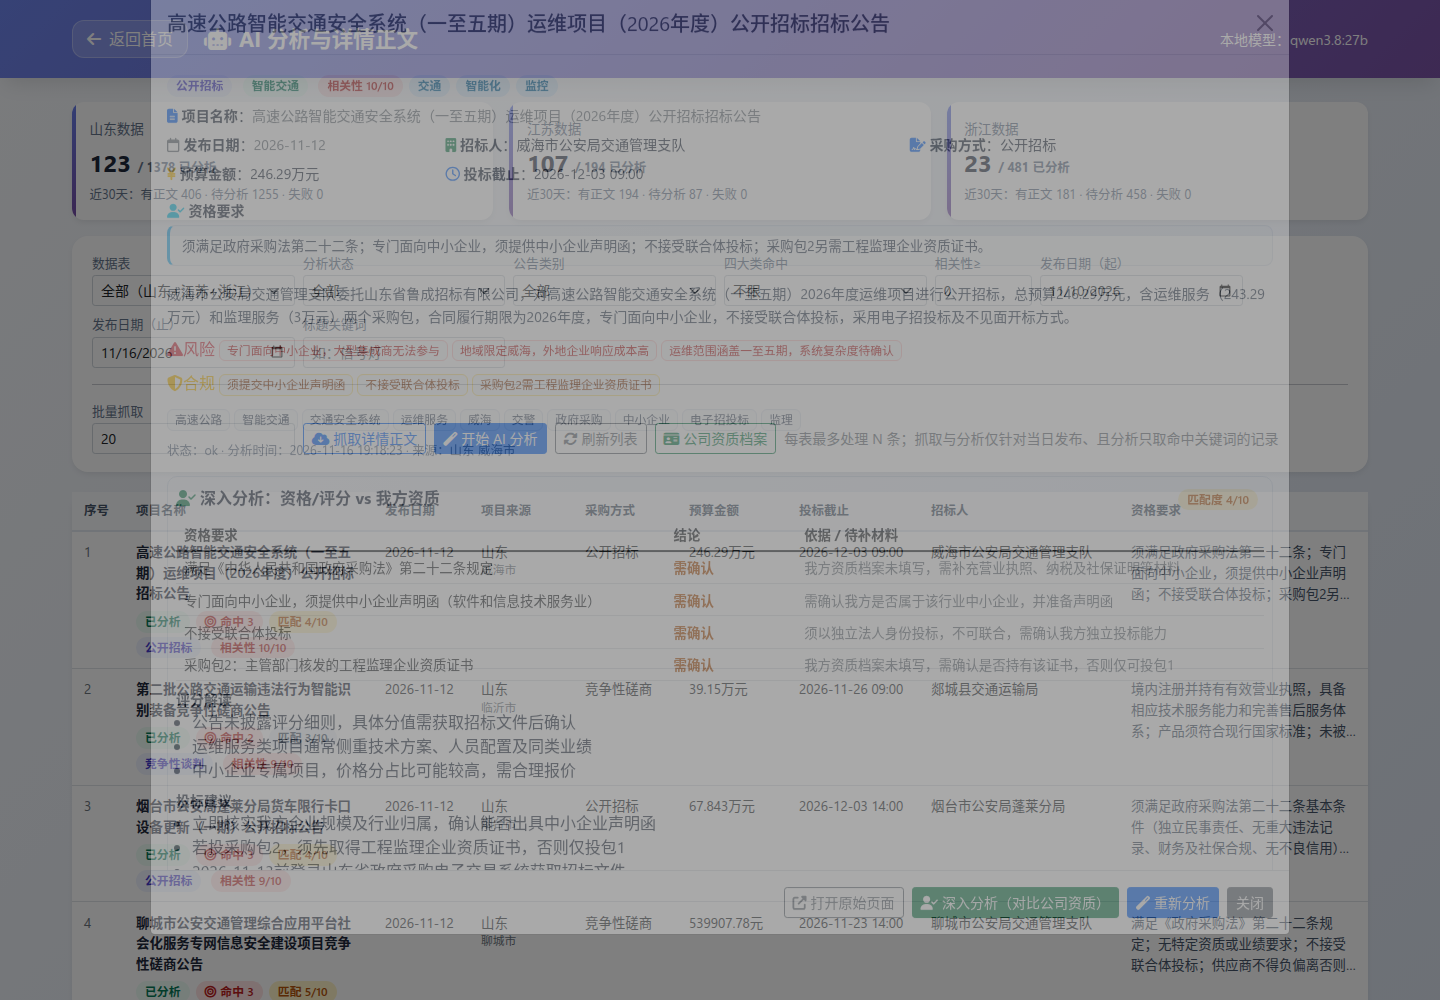
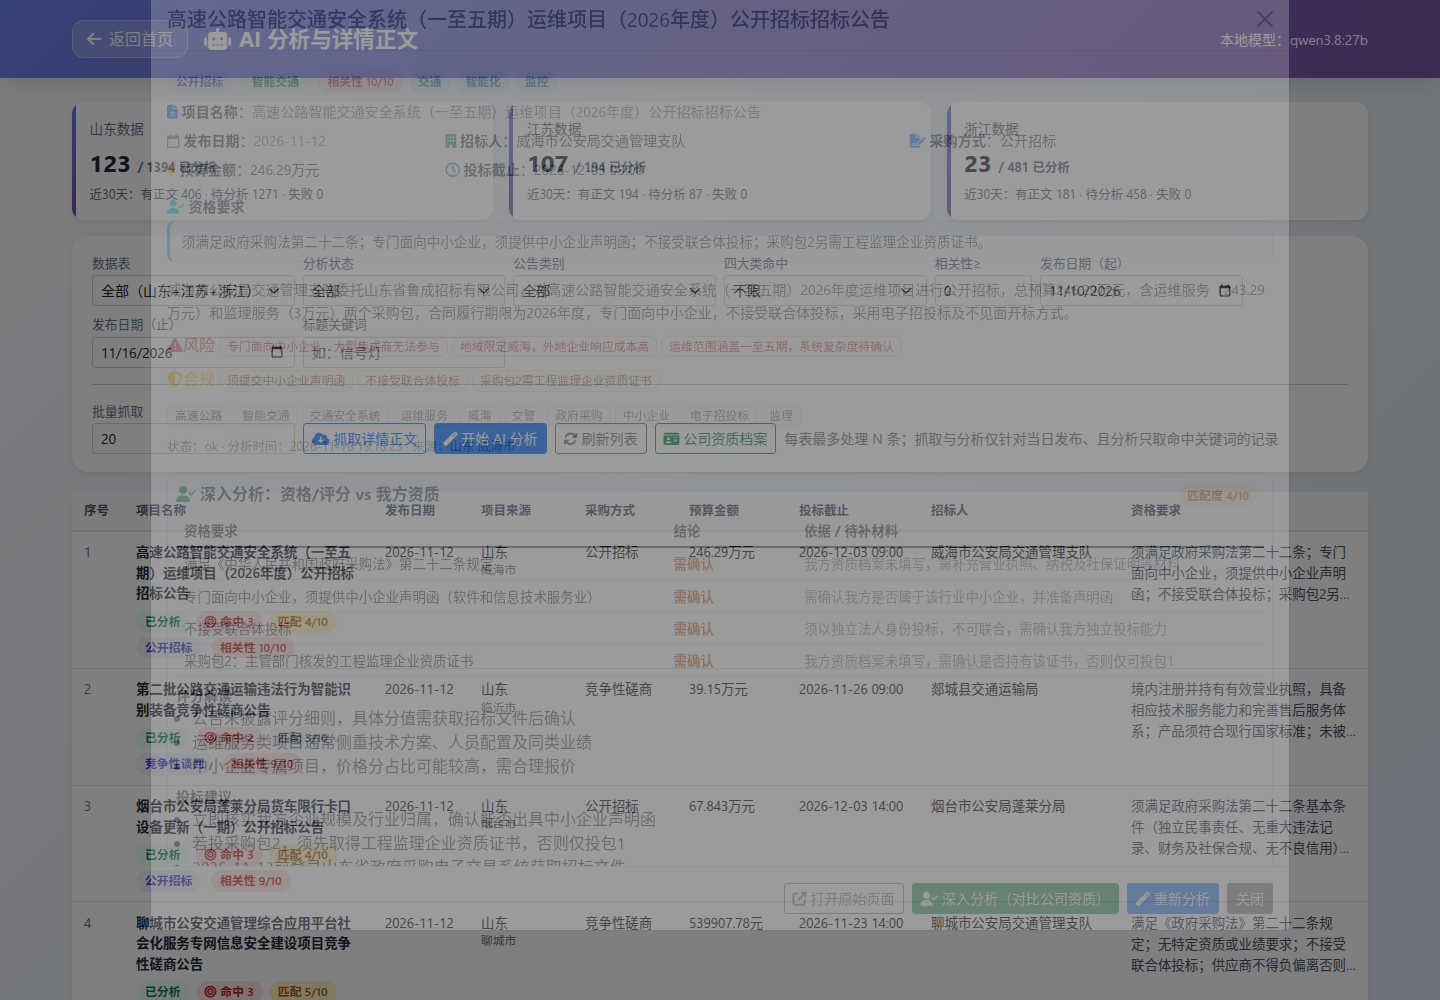
feat(ui): 主页头部新增 AI 分析入口(带已分析数)

diff --git a/flask_web/templates/index.html b/flask_web/templates/index.html
@@ -1112,7 +1112,7 @@
                     </div>
                 </div>
             </div>
-            <!-- 第二行：7个功能块 -->
+            <!-- 第二行：8个功能块 -->
             <div class="row">
                 <div class="col-12">
                     <div class="header-blocks-container">
@@ -1146,6 +1146,17 @@
                             <div class="block-content">
                                 <div class="block-title">重点关注</div>
                                 <div class="block-value" id="focus-count">0</div>
+                            </div>
+                        </a>
+
+                        <!-- AI 分析 -->
+                        <a href="{{ url_for('ai_analysis.index') }}" class="header-function-block" id="ai-analysis-block">
+                            <div class="block-icon">
+                                <i class="fas fa-robot"></i>
+                            </div>
+                            <div class="block-content">
+                                <div class="block-title">AI 分析</div>
+                                <div class="block-value" id="ai-analysis-count">0</div>
                             </div>
                         </a>
 
@@ -1755,6 +1766,7 @@ $(document).ready(function() {
     // 初始化头部数量统计
     updateBiddingCount();
     updateAnalysisCount();
+    updateAiAnalysisCount();
     updateFocusCount();
     updateDesignCount();
     updateAuditCount();
@@ -1874,6 +1886,23 @@ function updateAnalysisCount() {
         }
     }).fail(function() {
         $('#analysis-count').text('0');
+    });
+}
+
+// 更新 AI 分析数量（三张主表已分析合计）
+function updateAiAnalysisCount() {
+    $.get('{{ url_for('ai_analysis.api_stats') }}', function(response) {
+        if (response && response.data) {
+            let done = 0;
+            Object.keys(response.data).forEach(function(k) {
+                done += parseInt(response.data[k].analyzed) || 0;
+            });
+            $('#ai-analysis-count').text(done);
+        } else {
+            $('#ai-analysis-count').text('0');
+        }
+    }).fail(function() {
+        $('#ai-analysis-count').text('0');
     });
 }
 

diff --git a/tools/ui_smoke.py b/tools/ui_smoke.py
@@ -139,6 +139,27 @@ def main():
         else:
             check('转单二次校验弹窗', False, '未找到按钮')
 
+        print('== 4. 主页 AI 入口 ==')
+        page.goto(BASE + '/', wait_until='domcontentloaded', timeout=40000)
+        found = False
+        try:
+            page.wait_for_selector('#ai-analysis-block', timeout=15000)
+            found = True
+        except Exception as e:
+            detail = str(e)[:120]
+        check('主页存在 AI 分析入口', found, '' if found else '未找到 #ai-analysis-block')
+        if found:
+            title = page.locator('#ai-analysis-block .block-title').inner_text().strip()
+            check('入口标题正确', 'AI' in title, title)
+            page.wait_for_timeout(2500)
+            cnt = page.locator('#ai-analysis-count').inner_text().strip()
+            check('入口显示已分析数', cnt.isdigit() and int(cnt) > 0, 'count=%s' % cnt)
+            page.screenshot(path=os.path.join(OUT, '04_home_entry.png'))
+            page.locator('#ai-analysis-block').click()
+            page.wait_for_load_state('domcontentloaded')
+            page.wait_for_timeout(800)
+            check('点击可跳转 AI 分析页', '/ai-analysis' in page.url, page.url)
+
         browser.close()
 
     print('\n== console 错误 (%d) ==' % len(report['console_errors']))
